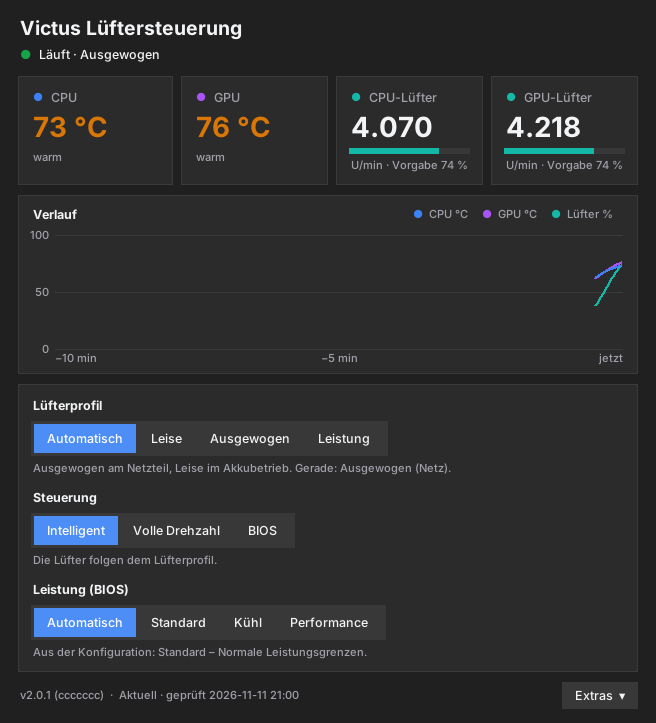
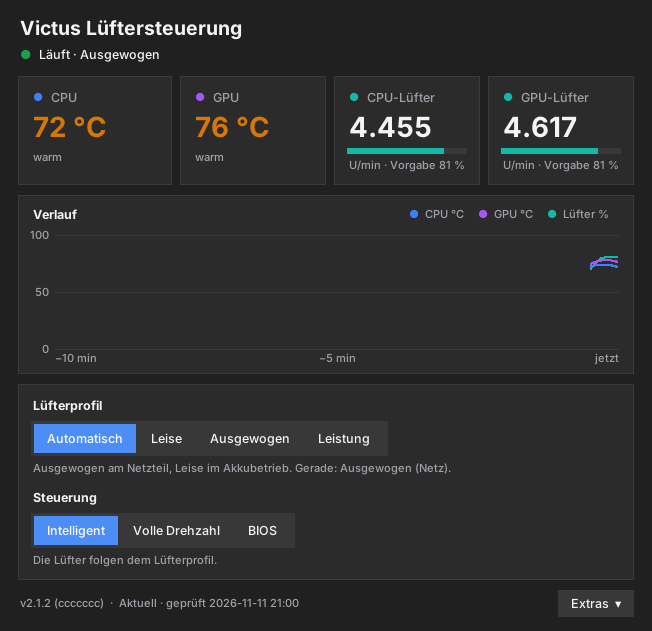
Umschalter für den BIOS-Leistungsmodus entfernt
3DMark Speed Way auf dem Victus BV8D4EA: Standard 2284, Performance 2275,
Kühl 2275 Punkte - kein messbarer Unterschied. Der Umschalter versprach
also etwas, das er nicht hält.

- Entfernt aus Fenster, Tray-Menü und CLI ('victus-fan power')
- Der Dienst setzt den Modus weiter aus [windows] fan_mode (Standard
  'default'), weil das BIOS die Drehzahlvorgabe erst danach umsetzt
- Eine frühere Auswahl in override.json wird ignoriert
- README: Hinweis, dass die Stromversorgung (Netzteil 54 W vs.
  USB-C-Dock 35 W) die Leistung bestimmt

Claude-Session: https://claude.ai/code/session_01UJvDhEb6xvrJq1QD9orATg

diff --git a/victus_fan/gui.py b/victus_fan/gui.py
@@ -2,7 +2,7 @@
 
 Die Oberfläche läuft im Benutzerkontext und spricht nicht direkt mit der
 Hardware: Sie liest ``status.json`` des Dienstes und schreibt Wünsche
-(Profil, Steuerung, Leistungsmodus) nach ``override.json``.
+(Lüfterprofil, Steuerung) nach ``override.json``.
 """
 
 from __future__ import annotations
@@ -49,16 +49,6 @@ MODE_HINTS = {
     "normal": "Die Lüfter folgen dem Lüfterprofil.",
     "max": "Beide Lüfter laufen dauerhaft auf Maximum.",
     "paused": "Die Steuerung pausiert – das BIOS regelt wie ab Werk.",
-}
-POWER_LABELS = {"auto": "Automatisch", "default": "Standard", "cool": "Kühl", "performance": "Performance"}
-# Gemessen am Victus BV8D4EA (3DMark Speed Way, HWiNFO, je ein Durchlauf): in allen
-# drei Modi erreichen RTX 5050 (≈ 80 W) und CPU dieselbe Leistung. Die CPU-Grenze
-# hängt nur an der Stromversorgung (HP-Netzteil 54 W, USB-C-Dock 35 W).
-POWER_HINTS = {
-    "auto": "Wert aus der Konfiguration.",
-    "default": "Wie im OMEN Gaming Hub. Auf diesem Gerät ohne messbaren Einfluss auf die Leistung.",
-    "cool": "Wie im OMEN Gaming Hub. Auf diesem Gerät ohne messbaren Einfluss auf die Leistung.",
-    "performance": "Wie im OMEN Gaming Hub. Auf diesem Gerät ohne messbaren Einfluss auf die Leistung.",
 }
 
 
@@ -615,10 +605,8 @@ class App:
         settings = Card(outer)
         settings.pack(fill="x", pady=(10, 0))
         self.profile_seg, self.profile_hint = self._setting(settings, "Lüfterprofil", self.set_profile)
-        self.mode_seg, self.mode_hint = self._setting(settings, "Steuerung", self.set_mode)
-        self.power_seg, self.power_hint = self._setting(settings, "Leistung (BIOS)", self.set_power, last=True)
+        self.mode_seg, self.mode_hint = self._setting(settings, "Steuerung", self.set_mode, last=True)
         self.mode_seg.set_options(list(MODE_LABELS.items()))
-        self.power_seg.set_options(list(POWER_LABELS.items()))
         self._fill_profiles()
 
         # Fußzeile: Version/Update links, Extras rechts
@@ -677,7 +665,6 @@ class App:
             pystray.MenuItem("Lüfterprofil", pystray.Menu(
                 lambda: radio({n: profile_label(n) for n in self._profiles()}, "profile", self.set_profile))),
             pystray.MenuItem("Steuerung", pystray.Menu(*radio(MODE_LABELS, "mode", self.set_mode))),
-            pystray.MenuItem("Leistung (BIOS)", pystray.Menu(*radio(POWER_LABELS, "power_mode", self.set_power))),
             pystray.Menu.SEPARATOR,
             pystray.MenuItem("Extras", pystray.Menu(
                 pystray.MenuItem("Nach Updates suchen", call(self.check_updates)),
@@ -712,9 +699,6 @@ class App:
 
     def set_mode(self, mode: str) -> None:
         self._write(mode=mode)
-
-    def set_power(self, power: str) -> None:
-        self._write(power_mode=power)
 
     def edit_config(self) -> None:
         self._open(self.config_path)
@@ -845,11 +829,10 @@ class App:
         return None if s.get("output") == "BIOS" else s.get("fan_percent")
 
     def _render_settings(self, override: dict, s: dict | None) -> None:
-        profile, mode, power = override["profile"], override["mode"], override["power_mode"]
+        profile, mode = override["profile"], override["mode"]
         profile_active = mode == "normal"
         self.profile_seg.set(profile, enabled=profile_active)
         self.mode_seg.set(mode)
-        self.power_seg.set(power)
 
         hint = PROFILE_HINTS.get(profile, "Eigenes Profil aus der Konfiguration.")
         if profile == "auto" and s:
@@ -858,13 +841,6 @@ class App:
             hint = "Gilt nur bei Steuerung „Intelligent“."
         self.profile_hint.config(text=hint)
         self.mode_hint.config(text=MODE_HINTS[mode])
-
-        power_hint = POWER_HINTS.get(power, "")
-        if power == "auto" and s and s.get("fan_mode"):
-            current = s["fan_mode"]
-            power_hint = f"Aus der Konfiguration: {POWER_LABELS.get(current, current)} – " \
-                         f"{POWER_HINTS.get(current, '').rstrip('.')}."
-        self.power_hint.config(text=power_hint)
 
     def _set_state(self, text: str, color: str) -> None:
         self.state_dot.config(fg=color)

diff --git a/victus_fan/service.py b/victus_fan/service.py
@@ -49,8 +49,6 @@ class FanService:
         self._last_sent_at = 0.0
         self._errors = 0
         self._paused = False
-        # Zuletzt an das Backend gegebener BIOS-Leistungsmodus
-        self._applied_fan_mode: str | None = config.windows.get("fan_mode") or ""
         self._config_mtime = self._mtime()
         self._last_change_at = 0.0
         self._mismatch_since: float | None = None
@@ -78,9 +76,7 @@ class FanService:
         old_windows = self.config.windows
         self.config = new
         if new.windows != old_windows:
-            self._apply_power_mode(self._override(), force=True)
-            self._last_sent = None  # neu senden
-            self._mismatch_since = None
+            self._apply_backend_settings()
         self.controller.configure(new.control, new.general["critical_temp"])
         self.toggle.configure(float(new.toggle["engage_percent"]), float(new.toggle["release_percent"]),
                               float(new.toggle["min_on_time"]))
@@ -135,8 +131,6 @@ class FanService:
         reading = Reading(_round(b.read_cpu_temp()), _round(b.read_gpu_temp()), on_battery)
         override = self._override()
         mode = override["mode"]
-        if mode != "paused" and not self._paused:
-            self._apply_power_mode(override)
         name, reason = self.active_profile_name(on_battery, override)
         profile = self.config.profile(name)
 
@@ -155,7 +149,7 @@ class FanService:
             if self._paused:
                 log.info("Steuerung fortgesetzt")
                 self._paused = False
-                self._apply_power_mode(override, force=True)
+                self._apply_backend_settings()   # Leistungsmodus wieder setzen
             output = self._apply(decision.percent, decision.critical, now, force_max=(mode == "max"))
 
         if mode == "normal" and not self.dry_run and hasattr(b, "maintain"):
@@ -169,9 +163,7 @@ class FanService:
             "timestamp": time.time(),
             "mode": mode,
             "supports_level": b.supports_level,
-            "fan_mode": "" if mode == "paused" else (self._applied_fan_mode or ""),
-            "power_mode": override["power_mode"],
-            "power_modes_available": hasattr(b, "set_fan_mode"),
+            "fan_mode": "" if mode == "paused" else (self.config.windows.get("fan_mode") or ""),
             "backend": b.name,
             "profile": name,
             "profile_reason": reason,
@@ -229,23 +221,13 @@ class FanService:
         self.backend.rearm()
         self._last_sent = None       # Drehzahl sofort neu senden
 
-    def effective_windows(self, override: dict) -> dict:
-        """Windows-Einstellungen mit dem vom Benutzer gewählten Leistungsmodus."""
-        settings = dict(self.config.windows)
-        if override.get("power_mode", "auto") != "auto":
-            settings["fan_mode"] = override["power_mode"]
-        return settings
-
-    def _apply_power_mode(self, override: dict, force: bool = False) -> None:
-        settings = self.effective_windows(override)
-        wanted = settings.get("fan_mode") or ""
-        if self.dry_run or (not force and wanted == self._applied_fan_mode):
+    def _apply_backend_settings(self) -> None:
+        """[windows]-Einstellungen (u. a. BIOS-Leistungsmodus) an das Backend geben
+        - nach einer Konfig-Änderung und beim Fortsetzen nach einer Pause."""
+        if self.dry_run:
             return
-        if wanted != self._applied_fan_mode:
-            log.info("BIOS-Leistungsmodus -> %s", wanted or "(unverändert)")
-        self.backend.reconfigure(settings)
-        self._applied_fan_mode = wanted
-        self._last_sent = None      # Drehzahl im neuen Modus neu senden
+        self.backend.reconfigure(self.config.windows)
+        self._last_sent = None      # Drehzahl neu senden
         self._mismatch_since = None
 
     def _mismatch_warning(self, now: float) -> str | None:

diff --git a/victus_fan/cli.py b/victus_fan/cli.py
@@ -13,7 +13,7 @@ from . import __version__, paths
 from .backends import BACKENDS, BackendError, create_backend
 from .config import load_config
 from .controller import interpolate
-from .state import MODES, POWER_MODES, read_status, write_override
+from .state import MODES, read_status, write_override
 
 
 def _setup_logging(level: str, log_file: Path | None) -> None:
@@ -65,7 +65,7 @@ def cmd_status(args) -> int:
     print(f"Stand:        {status['time']}{note}")
     print(f"Modus:        {status.get('mode', 'normal')}")
     if status.get("fan_mode"):
-        print(f"BIOS-Modus:   {status['fan_mode']} (Auswahl: {status.get('power_mode', 'auto')})")
+        print(f"BIOS-Modus:   {status['fan_mode']}")
     print(f"Backend:      {status['backend']}")
     print(f"Profil:       {status['profile']} ({status['profile_reason']})")
     print(f"CPU:          {status['cpu_temp']} °C (geglättet {status['cpu_smoothed']})")
@@ -100,19 +100,6 @@ def cmd_mode(args) -> int:
     print({"normal": "Intelligente Steuerung aktiv.",
            "max": "Lüfter laufen auf voller Drehzahl (zurück mit: victus-fan mode normal).",
            "paused": "Pausiert - das BIOS regelt (zurück mit: victus-fan mode normal)."}[args.name])
-    return 0
-
-
-def cmd_power(args) -> int:
-    try:
-        write_override(power_mode=args.name)
-    except OSError as exc:
-        print(f"Konfiguration nicht schreibbar: {exc}")
-        return 1
-    print({"auto": "BIOS-Leistungsmodus aus der Konfiguration ([windows] fan_mode).",
-           "default": "BIOS-Leistungsmodus: Standard.",
-           "cool": "BIOS-Leistungsmodus: Kühl.",
-           "performance": "BIOS-Leistungsmodus: Performance."}[args.name])
     return 0
 
 
@@ -306,13 +293,9 @@ def main(argv: list[str] | None = None) -> int:
     p.add_argument("name")
     p.set_defaults(func=cmd_profile)
 
-    p = sub.add_parser("mode", help="Modus: normal | max (volle Drehzahl) | paused (BIOS regelt)")
+    p = sub.add_parser("mode", help="Steuerung: normal (Intelligent) | max (Volle Drehzahl) | paused (BIOS)")
     p.add_argument("name", choices=MODES)
     p.set_defaults(func=cmd_mode)
-
-    p = sub.add_parser("power", help="BIOS-Leistungsmodus: auto | default | cool | performance")
-    p.add_argument("name", choices=POWER_MODES)
-    p.set_defaults(func=cmd_power)
 
     p = sub.add_parser("gui", help="Tray-Icon und Fenster starten")
     p.add_argument("--hidden", action="store_true", help="nur Tray-Icon, Fenster nicht öffnen")

diff --git a/tests/test_service.py b/tests/test_service.py
@@ -209,39 +209,31 @@ class RearmTest(unittest.TestCase):
             self.assertFalse(reset_auto_chosen_fan_mode(p))      # eigene Wahl bleibt
 
 
-class PowerModeTest(unittest.TestCase):
+class FanModeTest(unittest.TestCase):
+    """Der BIOS-Leistungsmodus kommt nur aus der Konfiguration ([windows] fan_mode)."""
+
     def setUp(self):
         self.tmp = tempfile.TemporaryDirectory()
         self.addCleanup(self.tmp.cleanup)
         self.override = Path(self.tmp.name) / "override.json"
         self.b = FakeBackend(level=True)
-        self.b.set_fan_mode = lambda name: None
         self.b.applied = []
         self.b.reconfigure = lambda settings: self.b.applied.append(settings.get("fan_mode"))
-        cfg = Config()
-        cfg.raw["windows"]["fan_mode"] = "default"
-        self.s = FanService(cfg, self.b, override_file=self.override)
+        self.s = FanService(Config(), self.b, override_file=self.override)
 
-    def set(self, **values):
-        self.override.write_text(json.dumps(values))
-
-    def test_user_choice_is_applied_once(self):
-        self.set(power_mode="performance")
-        self.s.step(); self.s.step()
-        self.assertEqual(self.b.applied, ["performance"])
-        self.set(power_mode="auto")             # zurück zum Wert aus der Konfiguration
+    def test_old_power_mode_choice_is_ignored(self):
+        self.override.write_text(json.dumps({"power_mode": "performance"}))   # aus Version 2.1
         status = self.s.step()
-        self.assertEqual(self.b.applied, ["performance", "default"])
+        self.assertEqual(self.b.applied, [])            # nichts umgestellt
         self.assertEqual(status["fan_mode"], "default")
 
-    def test_resume_after_pause_restores_choice(self):
-        self.set(power_mode="cool", mode="paused")
+    def test_resume_after_pause_sets_mode_again(self):
+        self.override.write_text(json.dumps({"mode": "paused"}))
         self.s.step()
         self.assertEqual(self.b.calls[-1], ("restore",))
-        self.set(power_mode="cool", mode="normal")
+        self.override.write_text(json.dumps({"mode": "normal"}))
         self.s.step()
-        self.assertEqual(self.b.applied[-1], "cool")
-
+        self.assertEqual(self.b.applied, ["default"])
 
 if __name__ == "__main__":
     unittest.main()

diff --git a/victus_fan/state.py b/victus_fan/state.py
@@ -13,9 +13,9 @@ from pathlib import Path
 from . import paths
 
 MODES = ("normal", "max", "paused")
-# BIOS-Leistungsmodus: "auto" = Wert aus der config.toml ([windows] fan_mode)
-POWER_MODES = ("auto", "default", "cool", "performance")
-DEFAULT_OVERRIDE = {"profile": "auto", "mode": "normal", "power_mode": "auto"}
+# Frühere Versionen speicherten hier auch "power_mode" - der Schlüssel wird
+# ignoriert, der BIOS-Leistungsmodus kommt nur noch aus der Konfiguration.
+DEFAULT_OVERRIDE = {"profile": "auto", "mode": "normal"}
 # Älter als das gilt der Status als veraltet (Dienst läuft nicht).
 STALE_AFTER = 15.0
 
@@ -31,8 +31,6 @@ def read_override(path: Path | None = None) -> dict:
         pass
     if data["mode"] not in MODES:
         data["mode"] = "normal"
-    if data["power_mode"] not in POWER_MODES:
-        data["power_mode"] = "auto"
     return data
 
 

diff --git a/victus_fan/paths.py b/victus_fan/paths.py
@@ -16,7 +16,7 @@ else:  # nur für Entwicklung/Tests (z. B. --backend simulate)
 CONFIG_FILE = DATA_DIR / "config.toml"
 # Vom Dienst geschrieben: aktueller Zustand für Oberfläche und "victus-fan status".
 STATUS_FILE = DATA_DIR / "status.json"
-# Von Oberfläche/CLI geschrieben: Profil, Modus und Leistungsmodus.
+# Von Oberfläche/CLI geschrieben: Lüfterprofil und Steuerung.
 OVERRIDE_FILE = DATA_DIR / "override.json"
 LOG_FILE = DATA_DIR / "victus-fan.log"
 

diff --git a/victus_fan/__init__.py b/victus_fan/__init__.py
@@ -1,3 +1,3 @@
 """Intelligente Lüftersteuerung für HP-Victus-Notebooks."""
 
-__version__ = "2.1.2"
+__version__ = "2.2.0"

diff --git a/README.md b/README.md
@@ -40,7 +40,7 @@ Es folgt dem hellen oder dunklen Design von Windows. Seltener gebrauchte Funktio
 (Updates, Hardware-Test, Sensoren, Konfiguration, Log, Dienst neu starten) liegen unter **Extras**.
 Schließen (✕) blendet das Fenster nur aus.
 
-Drei Einstellungen lassen sich unabhängig voneinander wählen:
+Zwei Einstellungen lassen sich wählen:
 
 **Lüfterprofil** – wie stark die Lüfter auf die Temperatur reagieren (gilt bei Steuerung „Intelligent“):
 
@@ -59,13 +59,11 @@ Drei Einstellungen lassen sich unabhängig voneinander wählen:
 | **Volle Drehzahl** | Dauerhaft Maximum (≈ 5400 U/min), z. B. beim Rendern |
 | **BIOS** | Steuerung pausiert, das BIOS regelt wie ab Werk |
 
-**Leistung (BIOS)** – derselbe Modus wie im OMEN Gaming Hub (Automatisch, Standard, Kühl,
-Performance). Gemessen mit 3DMark Speed Way und HWiNFO hat er auf dem Victus BV8D4EA **keinen
-messbaren Einfluss**: In allen drei Modi erreichen die RTX 5050 (≈ 80 W) und die CPU dieselbe
-Leistung. Die Steuerung setzt ihn trotzdem, weil das BIOS die Drehzahlvorgabe erst danach umsetzt.
-
-Die **CPU-Grenze** hängt nur an der Stromversorgung: am HP-Netzteil 54 W dauerhaft (65 W im
-Boost), an einer USB-C-Dockingstation nur 35 W.
+**Leistung:** Einen Umschalter für den BIOS-Leistungsmodus (wie im OMEN Gaming Hub) gibt es
+bewusst nicht. Gemessen mit 3DMark Speed Way bringen Standard, Performance und Kühl auf diesem
+Gerät dieselbe Punktzahl (2 284 / 2 275 / 2 275). Was die Leistung wirklich bestimmt, ist die
+**Stromversorgung**: Am HP-Netzteil darf die CPU dauerhaft 54 W aufnehmen (65 W im Boost), an
+einer USB-C-Dockingstation nur 35 W.
 
 Die Oberfläche läuft mit normalen Benutzerrechten; nur der Hintergrunddienst spricht mit
 der Hardware. Beendest du das Tray-Icon, regelt der Dienst unverändert weiter.
@@ -140,7 +138,6 @@ victus-fan status
 |---|---|
 | `victus-fan profile quiet\|balanced\|performance\|auto` | Profil wählen |
 | `victus-fan mode normal\|max\|paused` | Steuerung wählen (Intelligent, Volle Drehzahl, BIOS) |
-| `victus-fan power auto\|default\|cool\|performance` | Leistung (BIOS) wählen |
 | `victus-fan curve balanced` | Lüfterkurve eines Profils anzeigen |
 | `victus-fan selftest --apply` | Hardware-Test (Administrator) |
 | `victus-fan sensors --apply` | Temperaturquellen vergleichen (Administrator) |
@@ -161,7 +158,7 @@ python -m victus_fan -c config.example.toml run --backend simulate -v
 | Modul | Aufgabe |
 |---|---|
 | `controller.py` | Regelkern (Kurven, Glättung, Hysterese, Rampen) – ohne Hardware testbar |
-| `service.py` | Dienstschleife, Modi, Leistungsmodus, Selbstkontrolle |
+| `service.py` | Dienstschleife, Steuerung, Selbstkontrolle |
 | `backends/windows.py` | HP-BIOS über WMI (`hpqBIntM`); Befehlscodes aus der Community-Dokumentation (z. B. OmenMon) |
 | `gui.py` | Tray-Icon und Fenster |
 | `selftest.py`, `sensors.py` | Hardware-Test und Sensor-Test |
